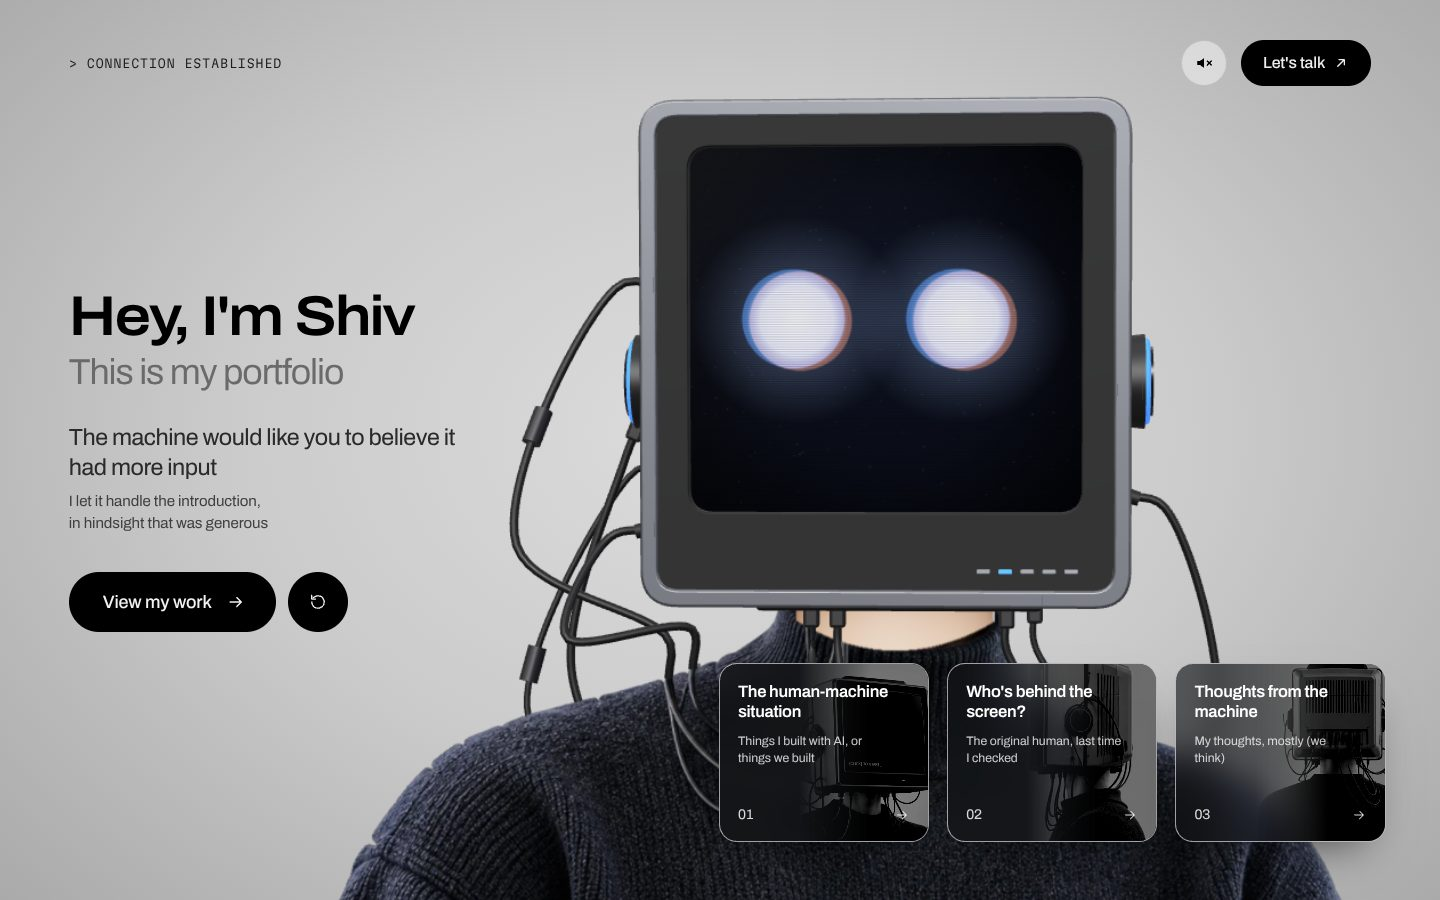
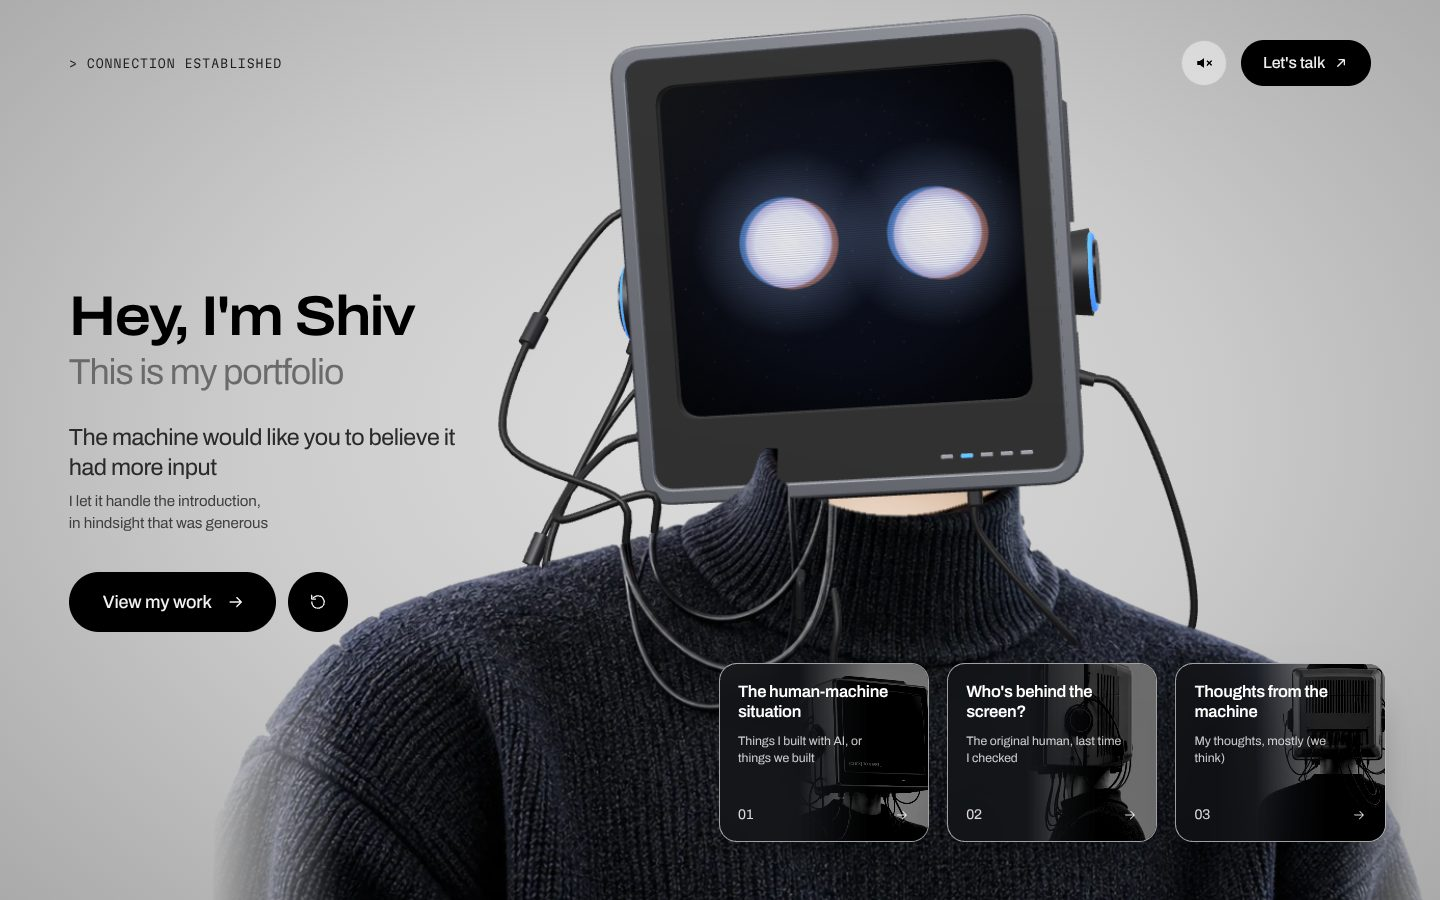
State 2: grand stature, three-quarter pose, a 2.5s entrance
- The torso scales up in State 2 while the head keeps its size and sits on
  the collar, so the machine stands on a broad frame like the reference
- Head rests turned toward the text, tilted and looking down a little,
  still following the cursor around that pose; the eyes look relative to it
- Wider 3D canvas and softened photo edges for the bigger sweater
- Faster sequence: typing starts sooner and runs quicker; the main button,
  restart and all three cards land together in one beat

Claude-Session: https://claude.ai/code/session_01RVQ1Q59ngYfRhdqzZmJJG4

diff --git a/src/hero/Hero.tsx b/src/hero/Hero.tsx
@@ -6,7 +6,7 @@ import { Character, type Box } from "./character/Character";
 import { HEAD_CENTER, SRC } from "./character/geometry";
 import type { HeadControl } from "./character/types";
 import { contact, hints, intro, screen, site, status } from "./content";
-import { talkBox } from "./layout";
+import { isCompact, talkBox } from "./layout";
 import { initialState, ledOf, reducer } from "./machine";
 import { flipAt, flipCount } from "./pronouns";
 import { ScreenEngine } from "./screen/engine";
@@ -114,6 +114,9 @@ export default function Hero() {
   const head = useRef<HeadControl>({
     yaw: HEAD.restYawDeg,
     pitch: HEAD.restPitchDeg,
+    roll: 0,
+    yawBias: 0,
+    body: 1,
     nodAt: -1e9,
     frozen: false,
   });
@@ -210,8 +213,10 @@ export default function Hero() {
     let n = 0;
     let timer = 0;
     setTyped({ id: line.id, n: 0 });
+    // body lines type two characters per tick, so they stay quick without a render per letter
+    const chunk = typedUpTo >= intro.lines.length ? 2 : 1;
     const step = () => {
-      n++;
+      n = Math.min(line.text.length, n + chunk);
       setTyped({ id: line.id, n });
       if (n < line.text.length) {
         const speed = typedUpTo >= intro.lines.length ? T.bodySpeed : 1;
@@ -322,25 +327,51 @@ export default function Hero() {
   const flipK = (slot: string) => (flip?.slot === slot ? flip.k : null);
 
   // ---------- head follows the pointer ----------
+  // In State 2 the head holds an imposing pose (turned toward the text, tilted,
+  // on a bigger frame) and follows the cursor only a little around it.
+  const compact = viewport ? isCompact(viewport.w, viewport.h) : false;
+  const pose = talking
+    ? compact
+      ? { yaw: -8, pitch: 2, roll: 3, body: 1, follow: 0.6 }
+      : {
+          yaw: HEAD.conversationYawBiasDeg,
+          pitch: HEAD.conversationPitchDeg,
+          roll: HEAD.conversationRollDeg,
+          body: HEAD.conversationBody,
+          follow: HEAD.conversationFollow,
+        }
+    : { yaw: HEAD.restYawDeg, pitch: HEAD.restPitchDeg, roll: 0, body: 1, follow: 1 };
+
   const aimAt = useCallback(
     (x: number, y: number) => {
-      if (!viewport) return;
+      if (!viewport || reduced) return;
       const box = target ?? ({ s: 0, x: viewport.w / 2, y: viewport.h * 0.46 } as Box);
       const cx = box.s ? box.x + (HEAD_CENTER.x / SRC) * box.s : box.x;
       const cy = box.s ? box.y + (HEAD_CENTER.y / SRC) * box.s : box.y;
-      const bias = target ? HEAD.conversationYawBiasDeg : 0;
-      head.current.yaw = clamp((x - cx) / (viewport.w * 0.5)) * HEAD.maxYawDeg + bias * 0.5;
+      const dx = clamp((x - cx) / (viewport.w * 0.5));
       const dy = clamp((y - cy) / (viewport.h * 0.5));
-      head.current.pitch = dy * (dy > 0 ? HEAD.maxPitchDeg : HEAD.maxPitchUpDeg);
+      if (talking) {
+        head.current.yaw = pose.yaw + dx * HEAD.maxYawDeg * pose.follow;
+        head.current.pitch = pose.pitch + dy * HEAD.maxPitchDeg * pose.follow;
+      } else {
+        head.current.yaw = dx * HEAD.maxYawDeg;
+        head.current.pitch = dy * (dy > 0 ? HEAD.maxPitchDeg : HEAD.maxPitchUpDeg);
+      }
     },
-    [viewport, target],
+    // pose is derived from talking and compact
+    // eslint-disable-next-line react-hooks/exhaustive-deps
+    [viewport, target, talking, compact, reduced],
   );
 
-  // when the state changes with no pointer, settle into the state's rest pose
+  // when the state changes, settle into that state's pose
   useEffect(() => {
-    head.current.yaw = talking ? HEAD.conversationYawBiasDeg : HEAD.restYawDeg;
-    head.current.pitch = talking ? 2 : HEAD.restPitchDeg;
-  }, [talking]);
+    head.current.yaw = pose.yaw;
+    head.current.pitch = pose.pitch;
+    head.current.roll = pose.roll;
+    head.current.yawBias = talking ? pose.yaw : 0;
+    head.current.body = pose.body;
+    // eslint-disable-next-line react-hooks/exhaustive-deps
+  }, [talking, compact]);
 
   const down = useRef<{ x: number; y: number; id: number } | null>(null);
   useEffect(() => {
@@ -349,8 +380,8 @@ export default function Hero() {
     };
     const leave = (e: MouseEvent) => {
       if (!e.relatedTarget) {
-        head.current.yaw = talking ? HEAD.conversationYawBiasDeg : HEAD.restYawDeg;
-        head.current.pitch = talking ? 2 : HEAD.restPitchDeg;
+        head.current.yaw = pose.yaw;
+        head.current.pitch = pose.pitch;
       }
     };
     window.addEventListener("pointermove", move);
@@ -413,11 +444,12 @@ export default function Hero() {
   const led = ledOf(state);
   const compactTop = talk && talk.columnTop ? `${talk.columnTop}px` : undefined;
   const statusText = phase === "booting" ? status.booting : phase === "conversation" ? status.ready : "";
-  const appear = (i: number) => ({
-    initial: { opacity: 0, y: 10 },
+  // the main button, restart and the cards all land together, in one beat
+  const reveal = {
+    initial: { opacity: 0, y: reduced ? 0 : 8 },
     animate: { opacity: 1, y: 0 },
-    transition: { ...arrive, delay: reduced ? 0 : i * 0.09 },
-  });
+    transition: { ...arrive, duration: reduced ? 0 : 0.35 },
+  };
 
   return (
     <LazyMotion features={domAnimation} strict>
@@ -582,7 +614,7 @@ export default function Hero() {
                 {done && (
                   <>
                     {/* does nothing yet: the work section comes later */}
-                    <motion.button ref={mainCta} type="button" className="cta-main" {...appear(0)}>
+                    <motion.button ref={mainCta} type="button" className="cta-main" {...reveal}>
                       {intro.primary}
                       <Arrow size={20} />
                     </motion.button>
@@ -591,7 +623,7 @@ export default function Hero() {
                       className="restart"
                       onClick={restart}
                       aria-label={hints.restart}
-                      {...appear(1)}
+                      {...reveal}
                     >
                       <svg viewBox="0 0 24 24" width="20" height="20" aria-hidden>
                         <path
@@ -622,7 +654,7 @@ export default function Hero() {
               exit={{ opacity: 0, transition: { duration: 0.18 } }}
             >
               {intro.cards.map((c, i) => (
-                <motion.button key={c.id} type="button" className="card" {...appear(i)}>
+                <motion.button key={c.id} type="button" className="card" {...reveal}>
                   {/* eslint-disable-next-line @next/next/no-img-element */}
                   <img className="card-img" src={c.image} alt="" draggable={false} />
                   <span className="card-label">

diff --git a/src/hero/character/Crt3D.tsx b/src/hero/character/Crt3D.tsx
@@ -539,12 +539,27 @@ function BodyPlate({ onLoad }: { onLoad: () => void }) {
     return t;
     // eslint-disable-next-line react-hooks/exhaustive-deps
   }, []);
+  // soften the photo's own left and right edges, which show once the torso is scaled up
+  const edgeFade = useMemo(() => {
+    const c = document.createElement("canvas");
+    c.width = 256;
+    c.height = 1;
+    const x = c.getContext("2d")!;
+    const g = x.createLinearGradient(0, 0, 256, 0);
+    g.addColorStop(0, "#000");
+    g.addColorStop(0.1, "#fff");
+    g.addColorStop(0.9, "#fff");
+    g.addColorStop(1, "#000");
+    x.fillStyle = g;
+    x.fillRect(0, 0, 256, 1);
+    return new THREE.CanvasTexture(c);
+  }, []);
   const k = (CAM_Z - BODY_Z) / CAM_Z;
   const centre = torsoLocal(at(SRC / 2, BODY_TOP + BODY_SIZE.h / 2, BODY_Z));
   return (
     <mesh position={centre} renderOrder={1}>
       <planeGeometry args={[(BODY_SIZE.w / 100) * k, (BODY_SIZE.h / 100) * k]} />
-      <meshBasicMaterial map={tex} transparent alphaTest={0.03} toneMapped={false} />
+      <meshBasicMaterial map={tex} alphaMap={edgeFade} transparent alphaTest={0.03} toneMapped={false} />
     </mesh>
   );
 }
@@ -583,7 +598,13 @@ function Scene({ engine, head, led, onReady }: Omit<RendererProps, "paused">) {
   const monitorRef = useRef<THREE.Group>(null);
   const frames = useRef(0);
   const bodyLoaded = useRef(false);
-  const angle = useRef({ yaw: HEAD.restYawDeg, pitch: HEAD.restPitchDeg, torso: 0 });
+  const angle = useRef<{ yaw: number; pitch: number; torso: number; roll: number; body: number }>({
+    yaw: HEAD.restYawDeg,
+    pitch: HEAD.restPitchDeg,
+    torso: 0,
+    roll: 0,
+    body: 1,
+  });
   const lastVersion = useRef(-1);
   const updateCables = useRef<(() => void) | null>(null);
   const updateNeck = useRef<(() => void) | null>(null);
@@ -618,23 +639,33 @@ function Scene({ engine, head, led, onReady }: Omit<RendererProps, "paused">) {
   }, []);
 
   const pivotPos = useMemo(() => torsoLocal(at(PIVOT.x, PIVOT.y, 0)), []);
+  /** Height of the collar (where the neck meets the sweater), torso-local. */
+  const collarY = useMemo(() => torsoLocal(at(PIVOT.x, NECK.bottom, 0)).y, []);
 
   useFrame((state, dt) => {
     const now = performance.now();
     const a = angle.current;
     const step = Math.min(dt, 0.1);
+    // the shoulders take a share of the turn away from the pose, plus a little of the pose itself
+    const torsoTarget = (a.yaw - head.yawBias) * TORSO.follow + head.yawBias * TORSO.poseFollow;
     if (head.frozen) {
-      a.yaw = HEAD.restYawDeg;
-      a.pitch = HEAD.restPitchDeg;
-      a.torso = HEAD.restYawDeg * TORSO.follow;
+      a.yaw = head.yaw;
+      a.pitch = head.pitch;
+      a.roll = head.roll;
+      a.body = head.body;
+      a.torso = (head.yaw - head.yawBias) * TORSO.follow + head.yawBias * TORSO.poseFollow;
     } else {
       const k = 1 - Math.exp(-HEAD.damping * step);
       a.yaw += (head.yaw - a.yaw) * k;
       a.pitch += (head.pitch - a.pitch) * k;
+      a.roll += (head.roll - a.roll) * k;
       const kt = 1 - Math.exp(-TORSO.damping * step);
-      a.torso += (a.yaw * TORSO.follow - a.torso) * kt;
+      a.torso += (torsoTarget - a.torso) * kt;
+      // the body grows in step with the slide into State 2
+      const kb = 1 - Math.exp(-TORSO.scaleDamping * step);
+      a.body += (head.body - a.body) * kb;
     }
-    engine.setGaze(a.yaw / HEAD.maxYawDeg, a.pitch / HEAD.maxPitchDeg);
+    engine.setGaze((a.yaw - head.yawBias) / HEAD.maxYawDeg, a.pitch / HEAD.maxPitchDeg);
     if (engine.draw(now) || engine.version !== lastVersion.current) {
       lastVersion.current = engine.version;
       screenTex.needsUpdate = true;
@@ -656,14 +687,23 @@ function Scene({ engine, head, led, onReady }: Omit<RendererProps, "paused">) {
         -torsoYaw * TORSO.roll * DEG,
       );
       torso.current.position.set(TP.x + torsoYaw * TORSO.shift, TP.y + breathe * TORSO.breathe, TP.z);
+      torso.current.scale.setScalar(a.body);
     }
     if (pivot.current) {
       // the head's own turn is what is left after the torso's
       pivot.current.rotation.set(
         (a.pitch * (1 - TORSO.pitchFollow) + nod) * DEG,
         (a.yaw - torsoYaw) * DEG,
-        torsoYaw * TORSO.roll * DEG,
+        (torsoYaw * TORSO.roll + a.roll) * DEG,
         "YXZ",
+      );
+      // a bigger torso must not mean a bigger head, or a longer neck: the head
+      // rides on the collar, which moves with the torso, and keeps its own size
+      pivot.current.scale.setScalar(1 / a.body);
+      pivot.current.position.set(
+        pivotPos.x,
+        (a.body * collarY + (pivotPos.y - collarY)) / a.body,
+        pivotPos.z,
       );
     }
     updateNeck.current?.();

diff --git a/src/hero/timings.ts b/src/hero/timings.ts
@@ -1,5 +1,9 @@
 /**
  * Every timing in the hero, in milliseconds unless noted. Tweak here, nowhere else.
+ *
+ * State 2 arrives as one quick sequence, about 2.5s from the click: power-on
+ * and slide (0-0.7s), the four lines type in (0.3-2s), then the main button,
+ * restart and the three cards land together while the card text types.
  * Values come from docs/design/hero-direction.md.
  */
 export const T = {
@@ -11,19 +15,19 @@ export const T = {
 
   // Transition: booting
   powerOn: 280, // scan-line flash
-  bootLineUntil: 700, // boot line visible from powerOn to here
-  slideDelay: 200, // character starts sliding
-  slide: 800, // character slide / scale / turn
+  bootLineUntil: 480, // boot line visible from powerOn to here
+  slideDelay: 0, // character starts sliding
+  slide: 700, // character slide / scale / turn
   restartSlide: 700,
-  firstLineAt: 700, // left column starts typing
+  firstLineAt: 260, // left column starts typing
 
   // Typing
-  perChar: 26,
-  punctuationPause: 160, // extra after . , ? !
-  betweenLines: 350,
+  perChar: 16,
+  punctuationPause: 60, // extra after . , ? !
+  betweenLines: 60,
   pillStagger: 80,
-  bodySpeed: 0.6, // body lines type at this share of the per-character delay
-  cardPerChar: 14, // the three cards type together, this fast
+  bodySpeed: 0.9, // body lines type at this share of the per-character delay
+  cardPerChar: 6, // the three cards type together, this fast
 
   // The "I -> we" glitch
   slipAfter: 650, // pause after the line types, before it slips
@@ -55,7 +59,12 @@ export const HEAD = {
   damping: 2.2, // exponential damping λ; ~450ms to 63% of the way, so it eases rather than snaps
   restYawDeg: 16, // no pointer yet: slightly turned, like the photo
   restPitchDeg: 3,
-  conversationYawBiasDeg: -7, // State 2: leans toward the left column
+  // State 2: an imposing three-quarter pose, turned toward the text, tilted, looking down a little
+  conversationYawBiasDeg: -22,
+  conversationRollDeg: 6,
+  conversationPitchDeg: 5,
+  conversationFollow: 0.4, // share of the cursor-follow range it keeps around that pose
+  conversationBody: 1.38, // torso scale in State 2 (desktop), so the head sits on a big frame
   nodPitchDeg: 8,
   breathePx: 1.5,
 } as const;
@@ -67,6 +76,8 @@ export const TORSO = {
   roll: 0.28, // shoulders dip into the turn
   shift: 0.028, // and slide sideways (world units per degree)
   pitchFollow: 0.32, // and lean in when he looks down
+  poseFollow: 0.25, // share of a pose's built-in turn the shoulders take
+  scaleDamping: 3.2, // how fast the torso grows into State 2
   breathe: 0.035, // ~3.5px
   sway: 0.9, // idle sway of the shoulders, degrees
   swayPeriod: 7400, // ms

diff --git a/src/hero/layout.ts b/src/hero/layout.ts
@@ -40,16 +40,16 @@ export function talkBox(vw: number, vh: number): { box: Box; columnTop: number }
   const reach = MONITOR_W + 0.1; // the monitor plus its cables looping out on the left
 
   // (the 3D monitor draws about 40px below its box top, so these sit a little high)
-  let s = Math.min((vh * 0.62) / MONITOR_H, (buttonsStart - textEnd) / reach);
-  let top = 0;
+  let s = Math.min((vh * 0.54) / MONITOR_H, (buttonsStart - textEnd) / reach);
+  let top = vh * 0.05;
   // On narrower screens the buttons squeeze it; drop it just below the top bar
   // instead, where it can stay big.
-  const below = Math.min((vh * 0.57) / MONITOR_H, (vw - pad - textEnd) / reach);
+  const below = Math.min((vh * 0.52) / MONITOR_H, (vw - pad - textEnd) / reach);
   if (below > s * 1.08) {
     s = below;
     top = 60;
   }
-  const right = top < 40 ? buttonsStart : vw - pad;
+  const right = top < 56 ? buttonsStart : vw - pad;
   const lo = textEnd + s * (MONITOR_W / 2 + 0.1);
   const hi = right - (s * MONITOR_W) / 2;
   const cx = Math.min(Math.max(vw * 0.58, lo), Math.max(lo, hi));

diff --git a/src/hero/character/types.ts b/src/hero/character/types.ts
@@ -9,9 +9,15 @@ export type HeadControl = {
   /** Target angles in degrees. Positive yaw looks right, positive pitch looks down. */
   yaw: number;
   pitch: number;
+  /** Target head tilt in degrees; positive raises the right side. */
+  roll: number;
+  /** The pose's built-in turn: the eyes on the screen look relative to it. */
+  yawBias: number;
+  /** Torso scale; the head keeps its size. 1 = as photographed. */
+  body: number;
   /** performance.now() of the latest nod. */
   nodAt: number;
-  /** Reduced motion: hold the rest pose, no lag, no nods. */
+  /** Reduced motion: jump straight to the target pose, no lag, no nods. */
   frozen: boolean;
 };
 

diff --git a/src/hero/character/geometry.ts b/src/hero/character/geometry.ts
@@ -33,7 +33,7 @@ export const LEDS: [number, number][] = [
  * The 3D canvas covers the box plus these margins (fractions of the box), so turns never clip
  * and the sweater can run past the bottom of the box on tall phones.
  */
-export const CANVAS = { side: 0.16, top: 0.16, bottom: 0.4 };
+export const CANVAS = { side: 0.34, top: 0.16, bottom: 0.4 };
 
 /** Neck top: the head turns around this point. */
 export const PIVOT = { x: 656, y: 772 };

diff --git a/docs/learnings.md b/docs/learnings.md
@@ -37,3 +37,7 @@ The flip swaps one pronoun at a time, never a whole sentence, and only after eve
 ## Slimming the monitor
 
 The casing depths in `Crt3D.tsx` were tuned for a 5.0-deep monitor. Jacks, vents and the back-panel cables are placed in absolute depth, so they are scaled by `DS = M.d / 5`; without that, cables float behind a thinner casing.
+
+## Making the head look imposing
+
+Height alone did not do it: the monitor was already taller than in the reference. What reads as "grand" is the frame. In State 2 the torso group scales up (1.38x) while the head's pivot group scales by the inverse, so the shoulders get broad and the head keeps its size. The pivot is also re-positioned so it rides on the collar rather than drifting up with the torso, or a long stretch of neck appears. The cables need no change: their ends live in torso space and their starts in head space. Add a three-quarter turn toward the text, a few degrees of tilt and a slight downward look, and keep the cursor-follow small around that pose. The eyes on the screen look relative to the pose (`yawBias`), not to the front, or they stare off to one side.
